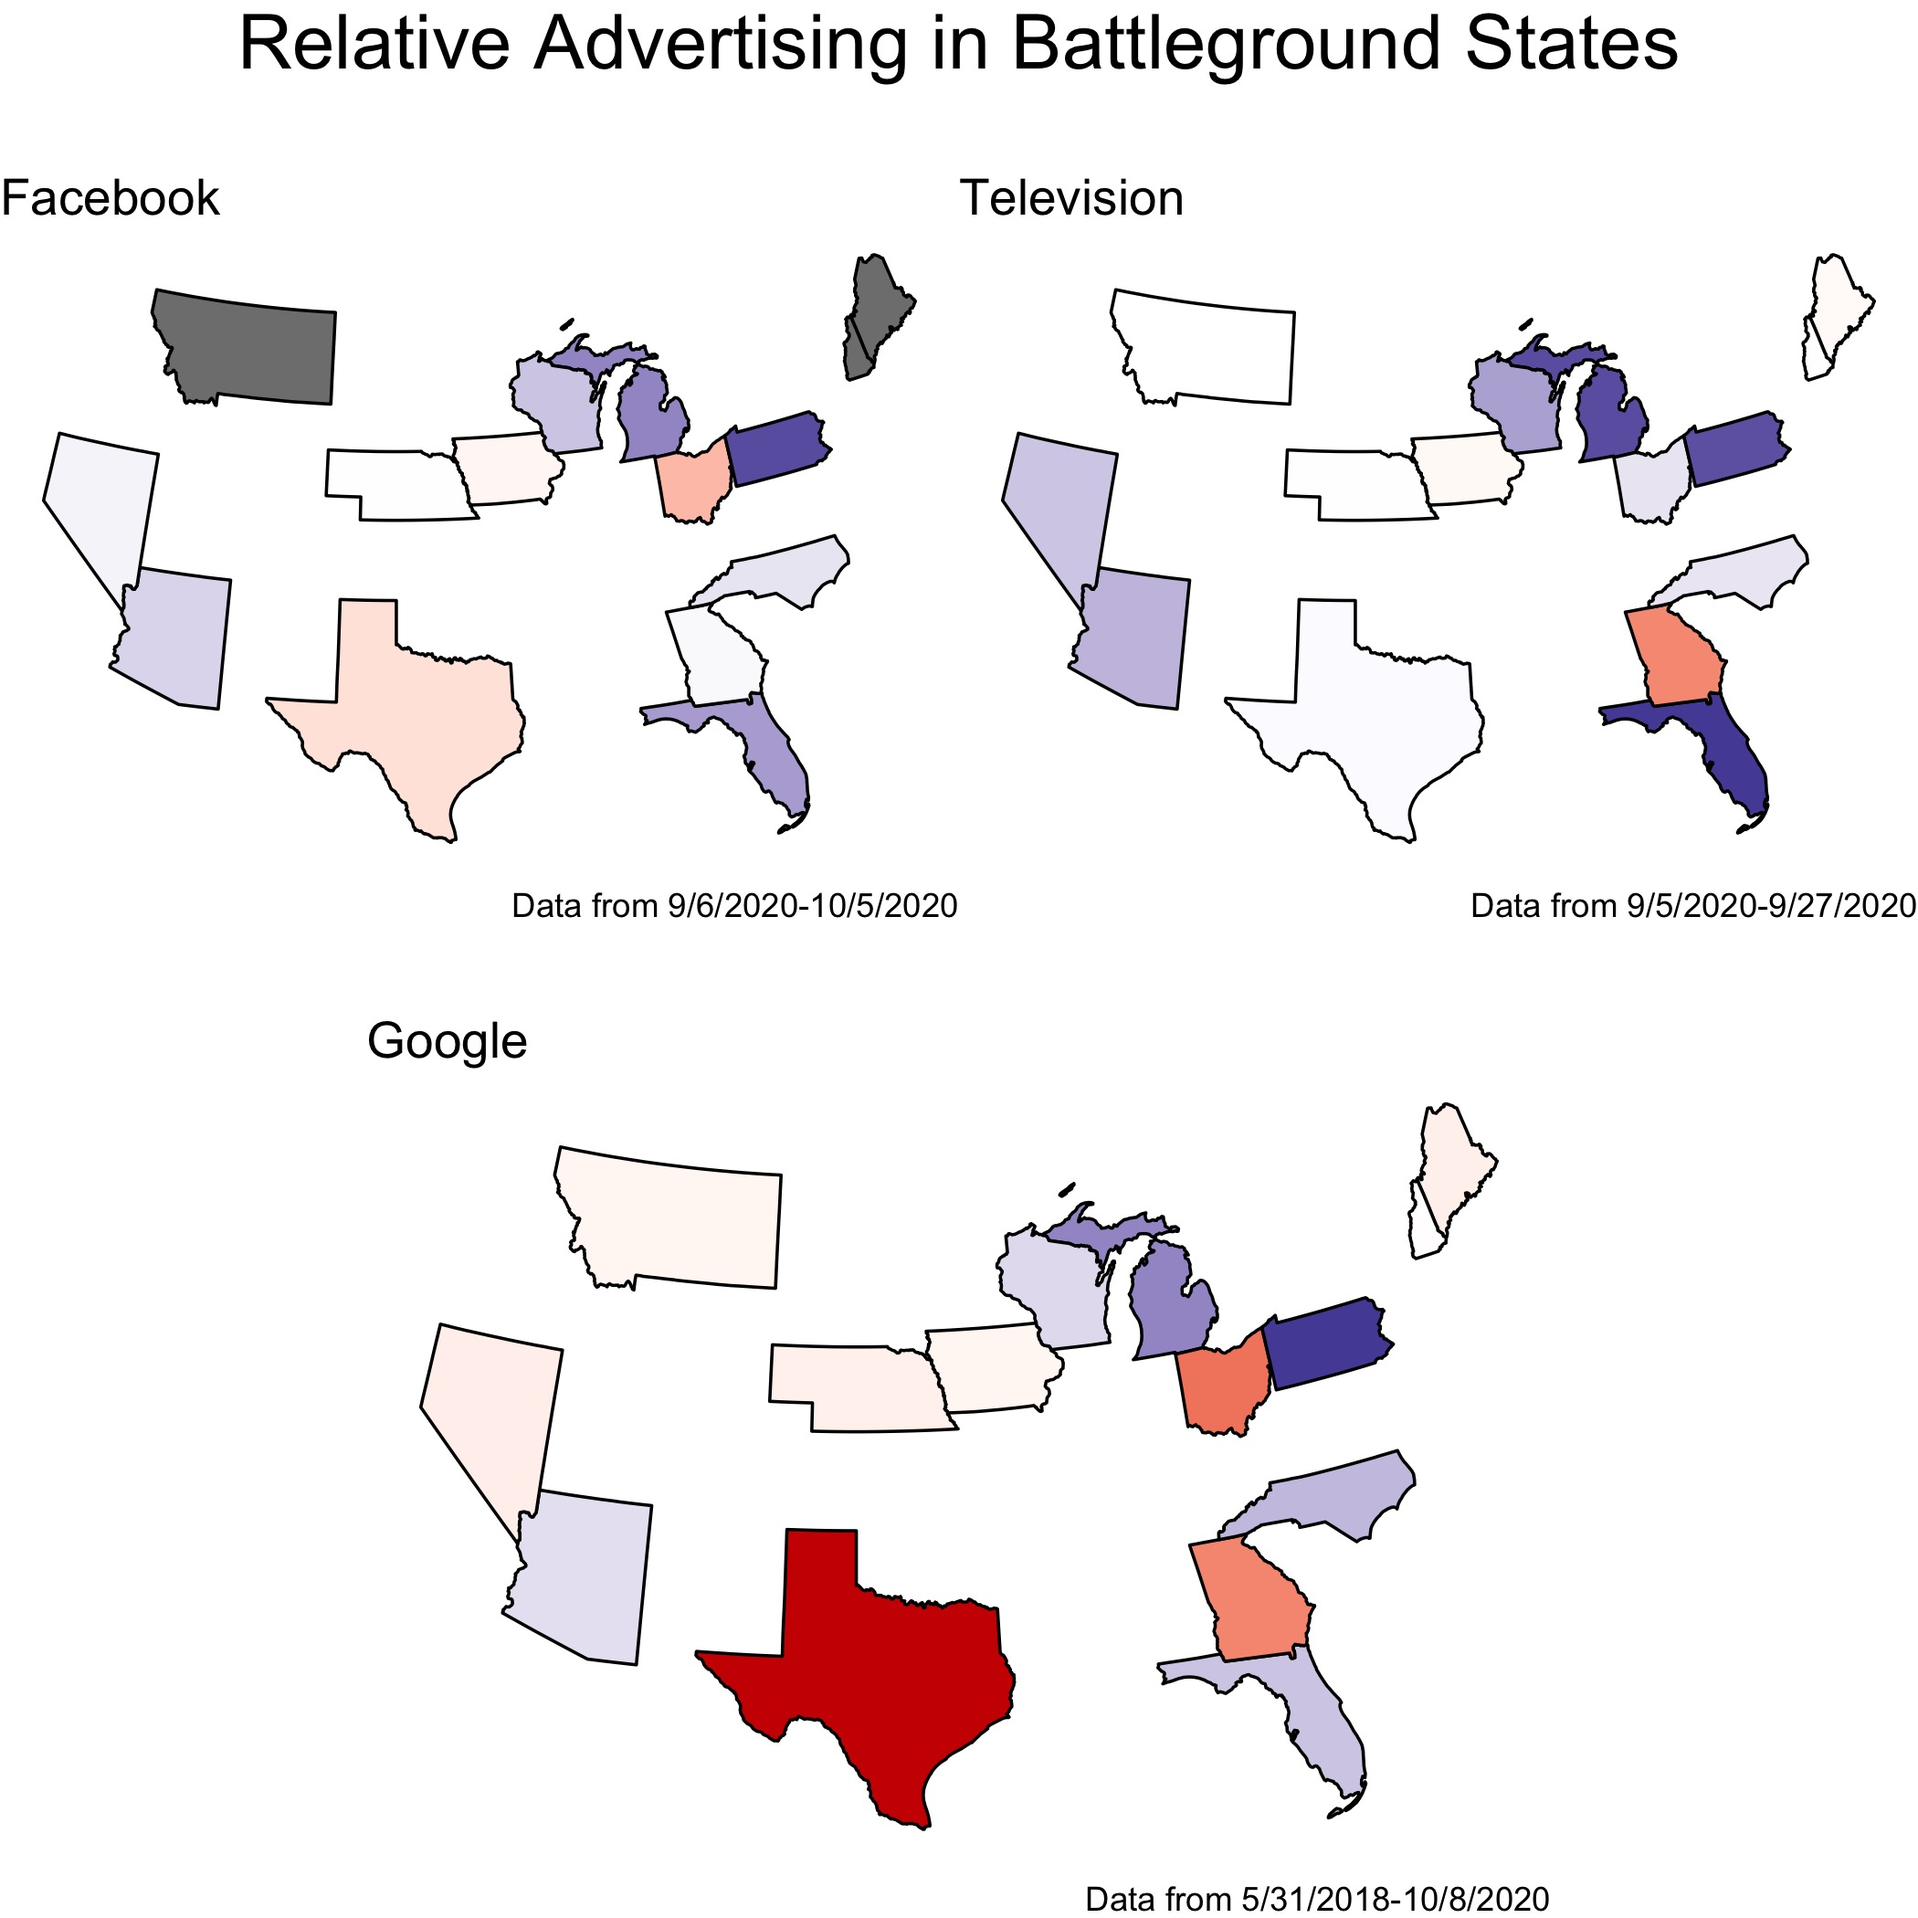
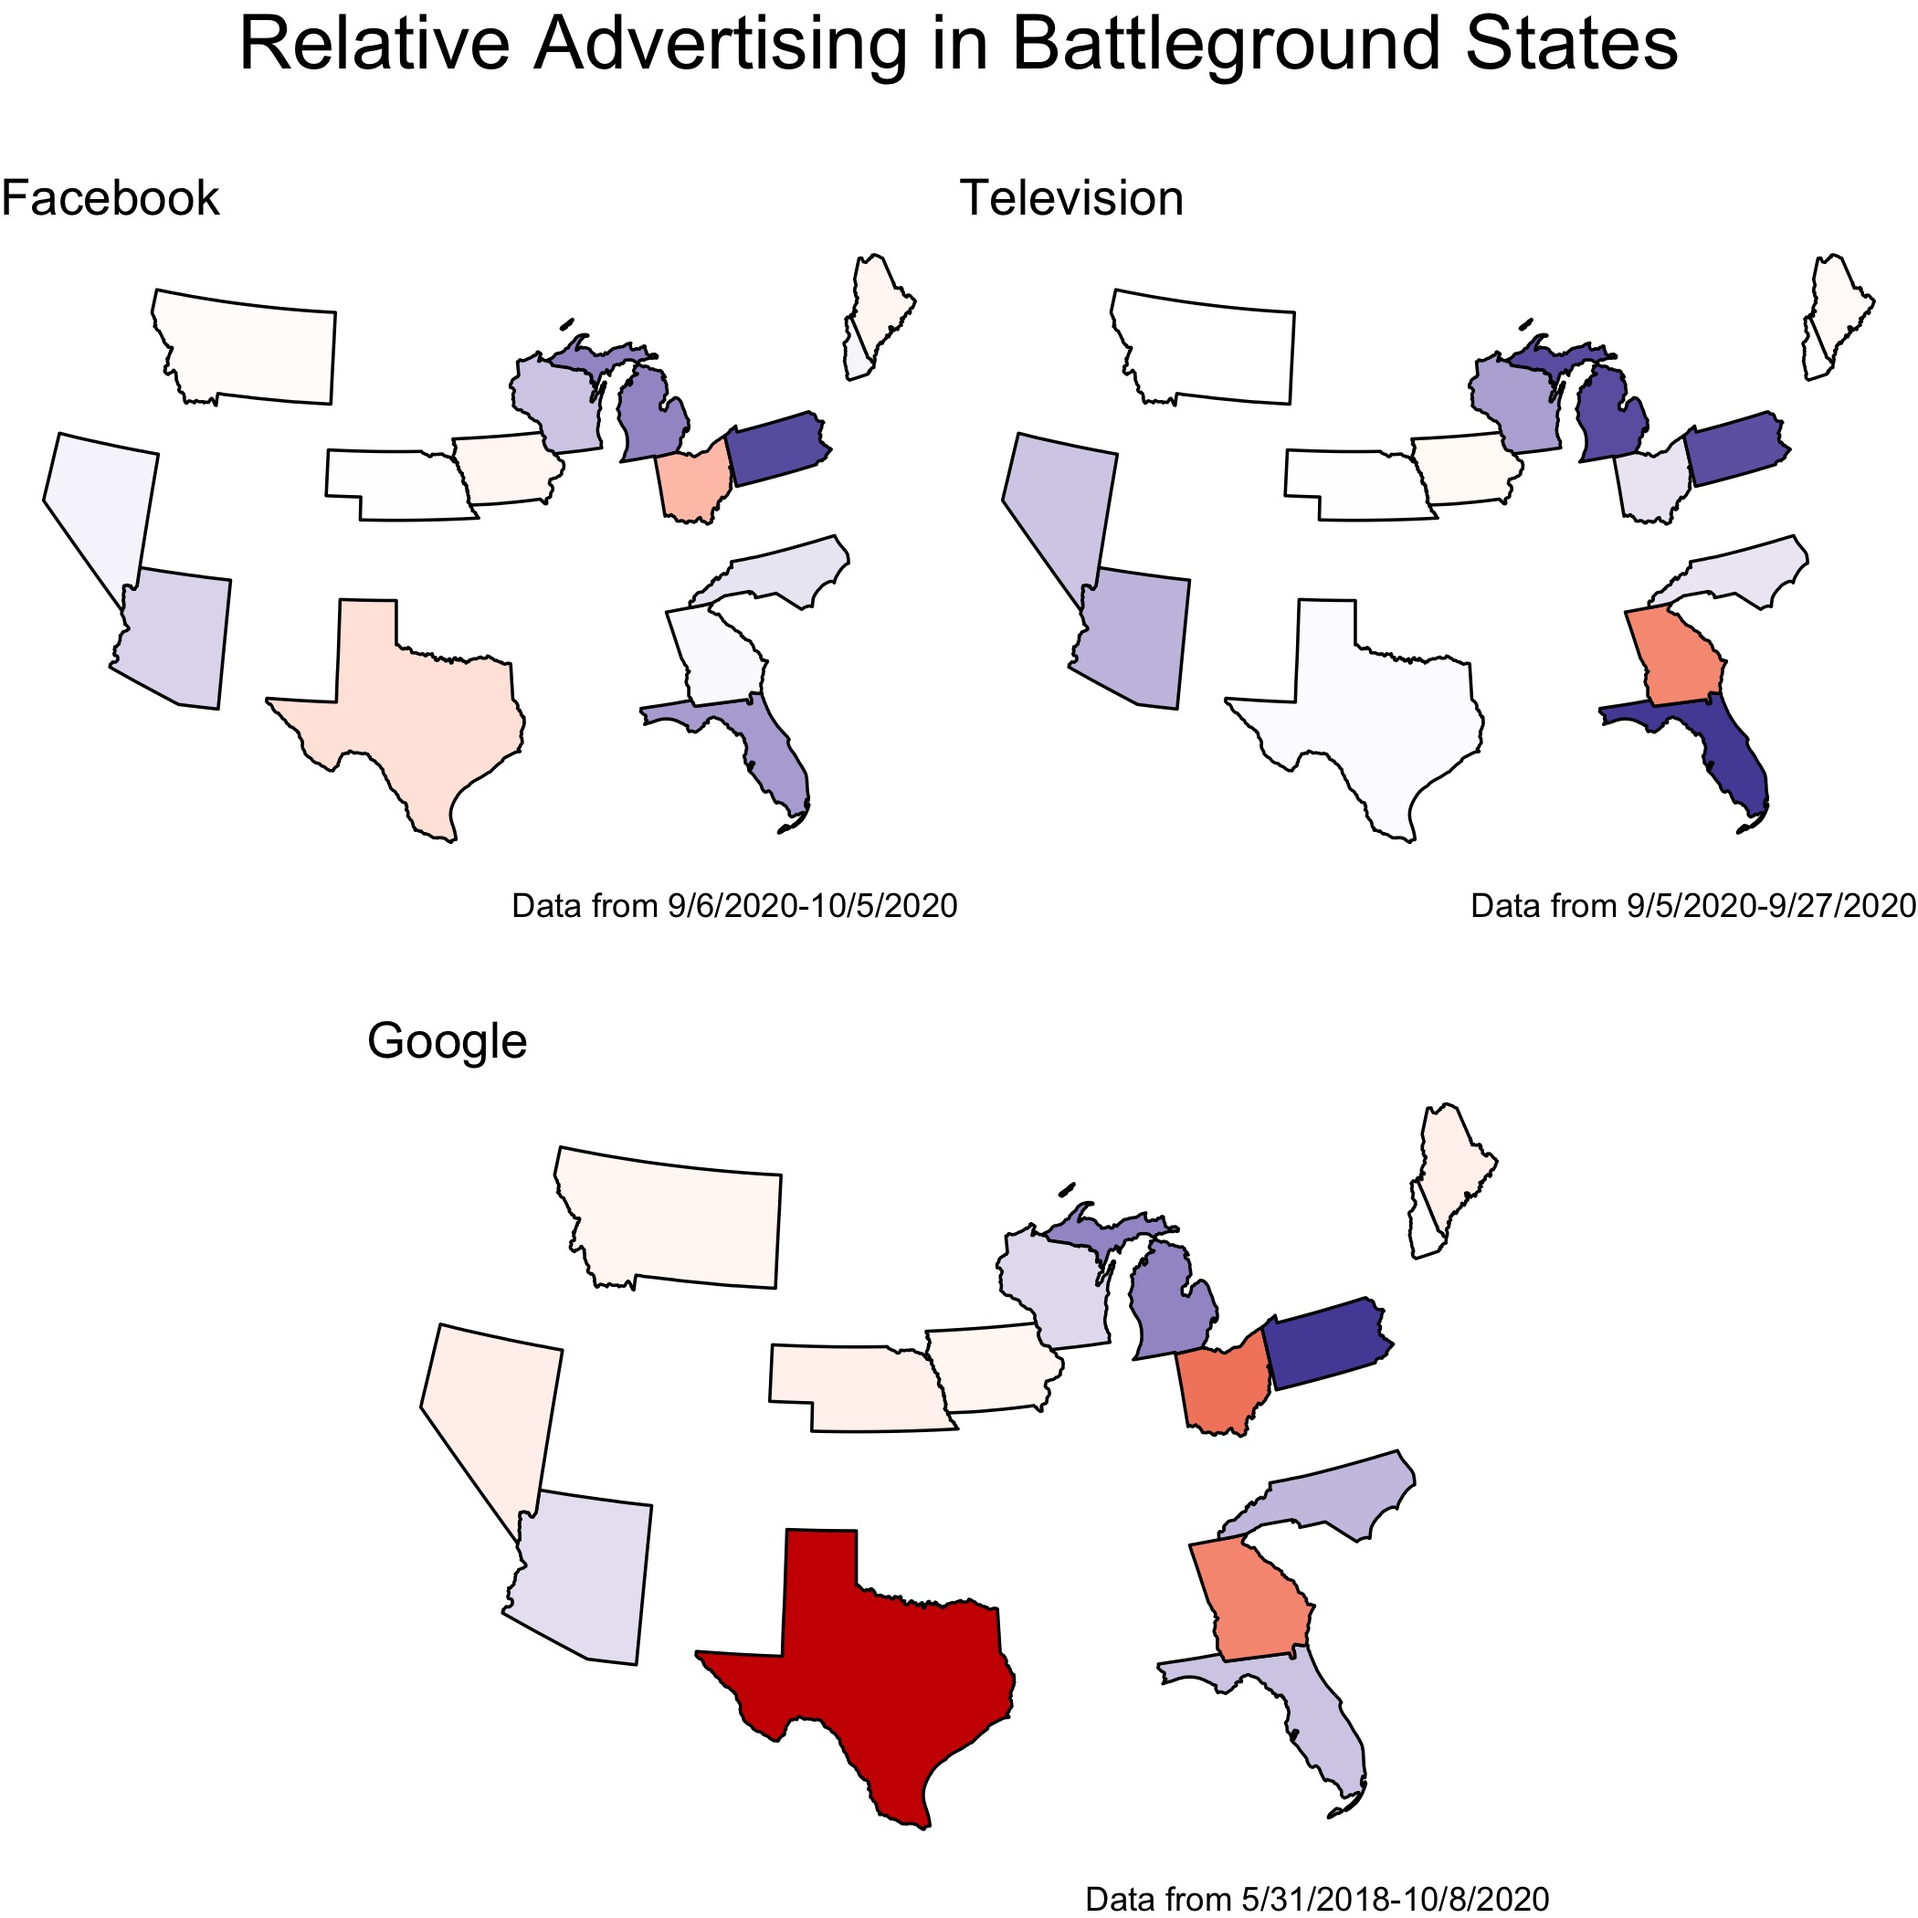
fixed nas in facebook map

Changed region(s): [[0.0619, 0.1548, 0.1857, 0.2167], [0.4333, 0.1238, 0.4952, 0.2167]]

diff --git a/posts/ads.md b/posts/ads.md
@@ -54,11 +54,11 @@ While scholars dispute the role of advertising in election outcomes, next week's
 
 [^battleground]: While I previously constructed my personal definition of [battleground states](../posts/intro.md), this analysis focuses on the states that the [New York Times](https://www.nytimes.com/interactive/2020/us/elections/election-states-biden-trump.html) classifies as competitive in this interactive model for the 2020 election.
 
-[^relative]: These maps are generated by taking the difference between Joe Biden's ad spending or count and Donald Trump's ad spending or count. The different platforms offered different metrics in the data, which is why I could not use either just spending or just counts across the board. However, both measure the attention devoted to each state by each candidate, and I used the same metric for both candidates on each map, so it does not weaken the descriptive power of the map. 
+[^relative]: These maps are generated by taking the difference between Joe Biden's ad spending or count and Donald Trump's ad spending or count. The different platforms used different metrics in the data, which is why I could not use a common legend or the same units for all of the maps. To generate these plots, I took the difference between Joe Biden's and Donald Trump's advertisement count or advertising spending (depending on what was available in the data), and plotted those differences. Positive numbers are darker blue, indicating that Joe Biden has outspent/advertised Trump in that state, negative numbers are darker red, indicating that Trump outspent/advertised Biden in that state, and near-zero numbers are white, indicating that the candidates devoted about the same amount of advertising spending or the same number of advertisements in that state. While I cannot offer a common axis for the three plots since some maps have differences in spending and some have differences in ad count, the maps help the reader visualize which candidate is advertising at a greater margin within that state. 
 
 [^google-data]: Google's data begins on 5/31/2018 and did not have dates as a variable in the dataset, so it is important to consider that the Google map does not isolate how candidates have allocated their advertising efforts in the past month.
 
-[^huber]: [Huber and Arceneaux, 2007] Huber, G. A. and Arceneaux, K. (2007).Identifying the Persuasive Effects of Presidential Advertising.American Journal of Political Science,51(4):957–977.
+[^huber]: [Huber and Arceneaux, 2007] Huber, G. A. and Arceneaux, K. (2007). Identifying the Persuasive Effects of Presidential Advertising. American Journal of Political Science, 51(4):957–977.
 
 [^clinton]: While Clinton failed to win the election, she did secure a victory in the popular vote. However, most campaign advertising happens in swing states to help win an Electoral College victory, which Clinton failed to do.
 
